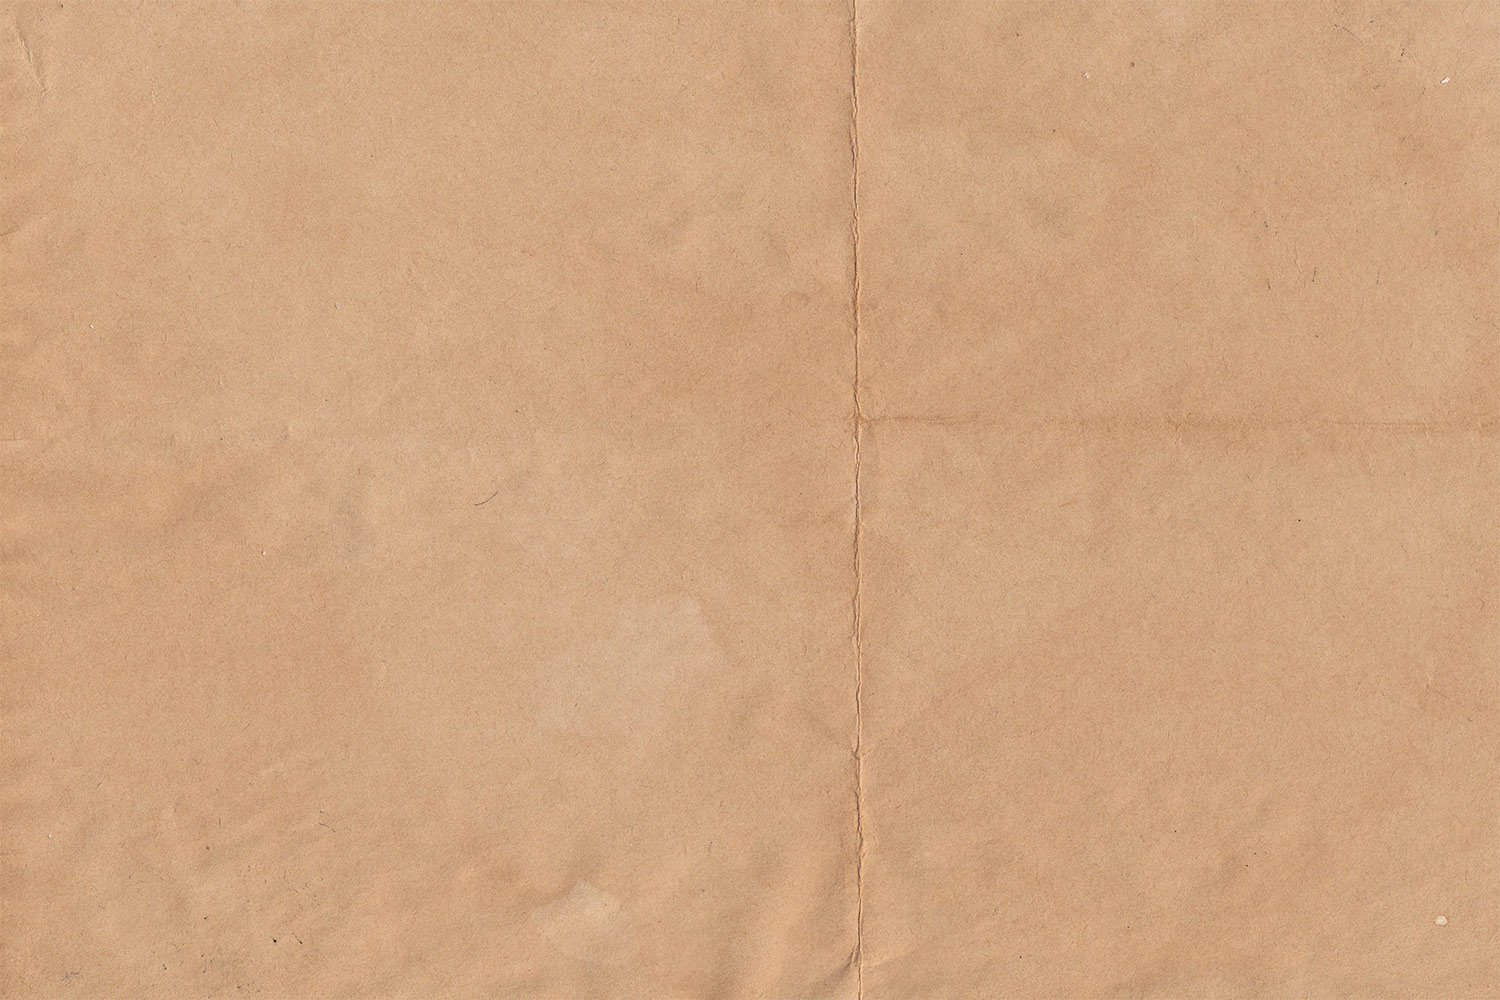
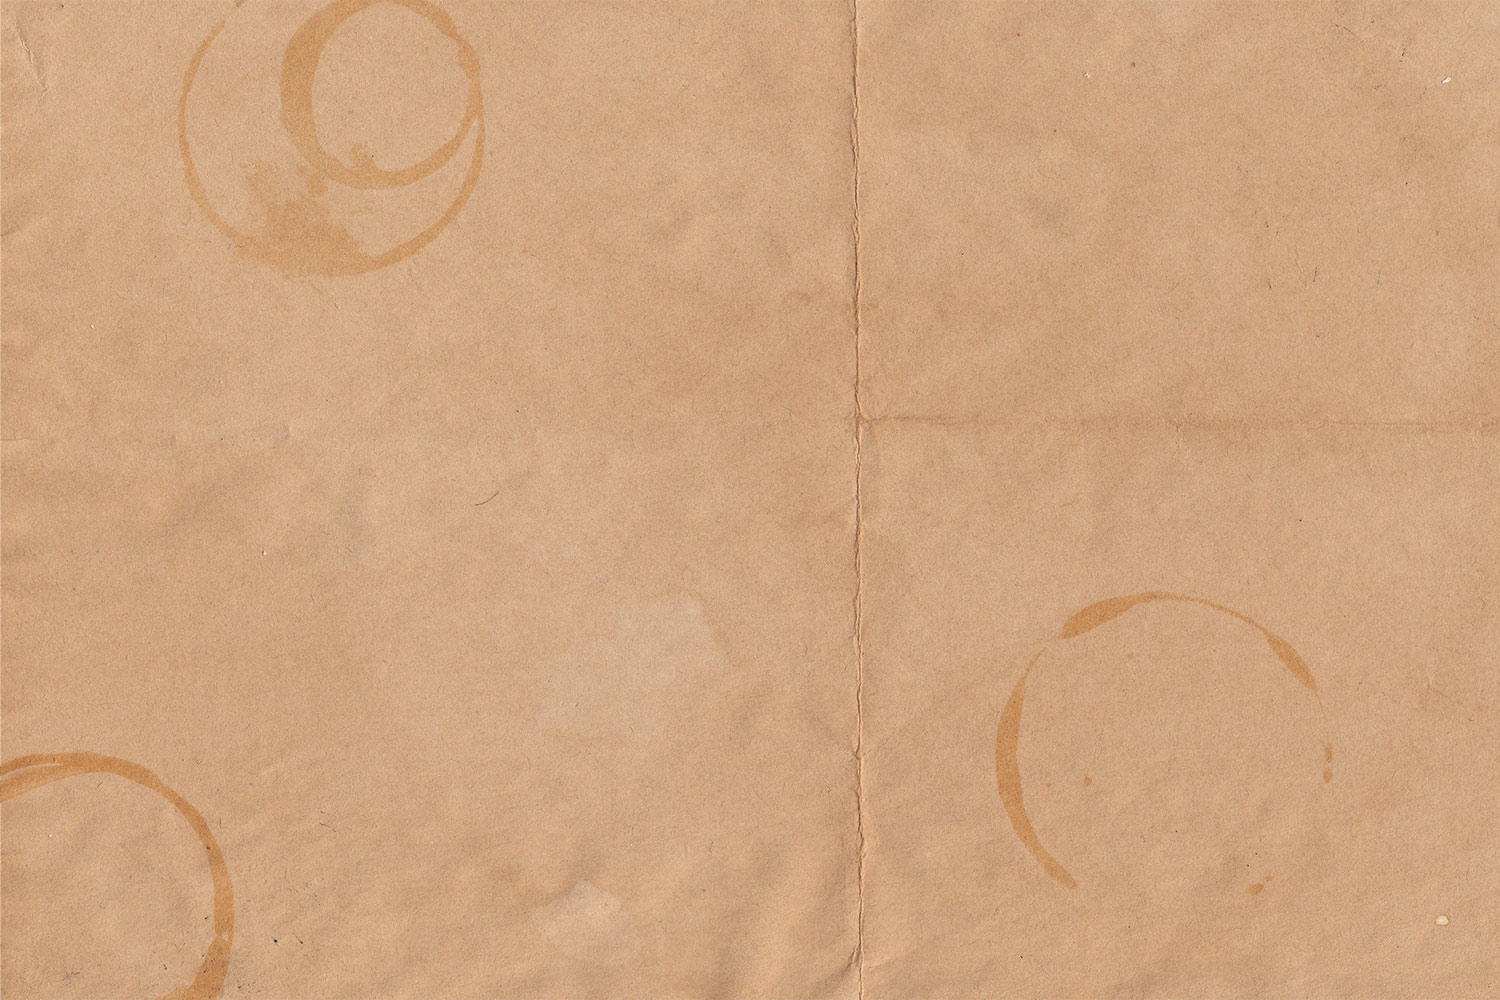
Updating background image w/Coffe stains

diff --git a/Develop/templates/main.html b/Develop/templates/main.html
@@ -1,32 +1,34 @@
 <!DOCTYPE html>
 <html lang="en">
-
-<head>
+  <head>
     <meta charset="UTF-8" />
     <meta name="viewport" content="width=device-width, initial-scale=1.0" />
     <meta http-equiv="X-UA-Compatible" content="ie=edge" />
     <title>My Team</title>
-    <link rel="stylesheet" href="https://stackpath.bootstrapcdn.com/bootstrap/4.3.1/css/bootstrap.min.css"
-        integrity="sha384-ggOyR0iXCbMQv3Xipma34MD+dH/1fQ784/j6cY/iJTQUOhcWr7x9JvoRxT2MZw1T" crossorigin="anonymous">
-    <link rel="stylesheet" href="style.css">
+    <link
+      rel="stylesheet"
+      href="https://stackpath.bootstrapcdn.com/bootstrap/4.3.1/css/bootstrap.min.css"
+      integrity="sha384-ggOyR0iXCbMQv3Xipma34MD+dH/1fQ784/j6cY/iJTQUOhcWr7x9JvoRxT2MZw1T"
+      crossorigin="anonymous"
+    />
+    <link rel="stylesheet" href="style.css" />
     <script src="https://kit.fontawesome.com/c502137733.js"></script>
-</head>
+  </head>
 
-<body>
+  <body>
     <div class="container-fluid">
-        <div class="row">
-            <div class="col-12 jumbotron mb-3 team-heading">
-                <h1 class="text-center">My Team</h1>
-            </div>
+      <div class="row">
+        <div class="col-12 jumbotron mb-4 team-heading">
+          <h1 class="text-center">My Team</h1>
         </div>
+      </div>
     </div>
     <div class="container">
-        <div class="row">
-            <div class="team-area col-12 d-flex justify-content-center">
-                {{ team }}
-            </div>
+      <div class="row">
+        <div class="team-area col-12 d-flex justify-content-center">
+          {{ team }}
         </div>
+      </div>
     </div>
-</body>
-
+  </body>
 </html>

diff --git a/Develop/output/team.html b/Develop/output/team.html
@@ -1,0 +1,47 @@
+<!DOCTYPE html>
+<html lang="en">
+
+<head>
+    <meta charset="UTF-8" />
+    <meta name="viewport" content="width=device-width, initial-scale=1.0" />
+    <meta http-equiv="X-UA-Compatible" content="ie=edge" />
+    <title>My Team</title>
+    <link rel="stylesheet" href="https://stackpath.bootstrapcdn.com/bootstrap/4.3.1/css/bootstrap.min.css"
+        integrity="sha384-ggOyR0iXCbMQv3Xipma34MD+dH/1fQ784/j6cY/iJTQUOhcWr7x9JvoRxT2MZw1T" crossorigin="anonymous">
+    <link rel="stylesheet" href="style.css">
+    <script src="https://kit.fontawesome.com/c502137733.js"></script>
+</head>
+
+<body>
+    <div class="container-fluid">
+        <div class="row">
+            <div class="col-12 jumbotron mb-3 team-heading">
+                <h1 class="text-center">My Team</h1>
+            </div>
+        </div>
+    </div>
+    <div class="container">
+        <div class="row">
+            <div class="team-area col-12 d-flex justify-content-center">
+                <div class="card employee-card mx-2">
+  <div class="card-header">
+    <h2 class="card-title">woerui</h2>
+    <h3 class="card-title"><i class="fas fa-mug-hot mr-2"></i>Manager</h3>
+  </div>
+  <div class="card-body">
+    <ul class="list-group">
+      <li class="list-group-item">ID: oiefjw</li>
+      <li class="list-group-item">
+        Email: <a href="mailto:vjiower">vjiower</a>
+      </li>
+      <li class="list-group-item">Office number: oiuer</li>
+    </ul>
+  </div>
+</div>
+
+            </div>
+        </div>
+    </div>
+</body>
+
+</html>

diff --git a/Develop/output/style.css b/Develop/output/style.css
@@ -6,3 +6,14 @@ body {
   background-size: cover;
   background-position: top center;
 }
+h1 {
+  font-size: 50px;
+}
+.jumbotron {
+  background: rgb(34, 193, 195);
+  background: linear-gradient(
+    0deg,
+    rgba(34, 193, 195, 0) 0%,
+    rgba(0, 0, 0, 0.4838472254136029) 100%
+  );
+}
